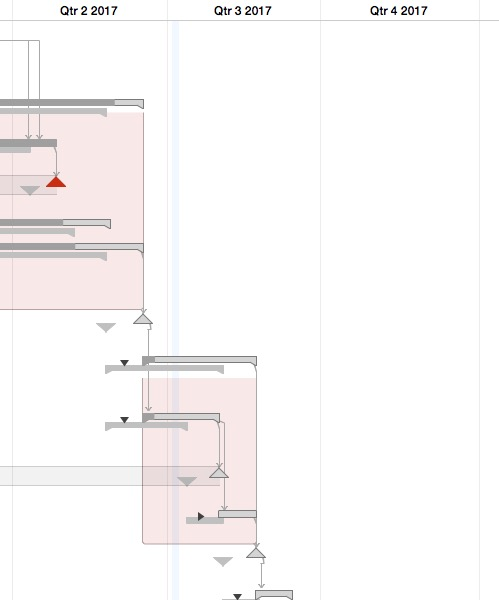
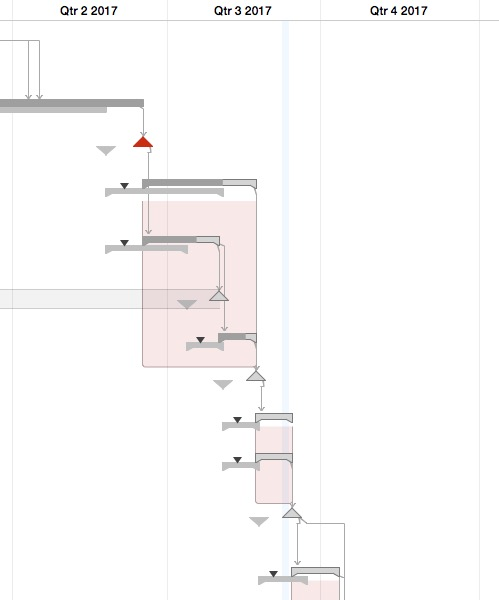
Update September 12
On to cross interest group leads review. Behind on IM Review 2.
Currently writing infrastructure. External integration will not write
fully separately - over all requirements goes into infrastructure and
rest is highlighted at point of external integration through out TDs.

Changed region(s): [[0.0, 0.15, 0.6914, 1.0], [0.1804, 0.24, 0.2405, 0.27], [0.6613, 0.87, 0.6914, 0.9]]

diff --git a/index.html b/index.html
@@ -25,8 +25,8 @@
 			<p class="number"><span class="data-missing">None</span></p>
 		</div>
 		<div id="completed" class="box">
-			<h2><span class="number">47%</span> Completed</h2>
-			<div id="bar"><div id="fill" style="width:47%;"></div></div>
+			<h2><span class="number">63%</span> Completed</h2>
+			<div id="bar"><div id="fill" style="width:63%;"></div></div>
 			<p><span class="label">Start:</span> 10/24/16</p>
 			<p><span class="label">End Date:</span> 12/19/17</p>
 			<p><span class="label">Variance:</span> 1w 3d 1h</p>
@@ -53,7 +53,7 @@
                 <td>10/24/16</td>
                 <td>12/19/17</td>
                 <td>&gt; 7mo 2w 3d 4h</td>
-                <td>54%</td>
+                <td>56%</td>
                 <td></td>
             </tr>
             
@@ -62,7 +62,7 @@
                 <td>11/22/16</td>
                 <td>11/22/17</td>
                 <td>&gt; 4mo 1w 4d 5.25h</td>
-                <td>25%</td>
+                <td>46%</td>
                 <td></td>
             </tr>
             
@@ -80,7 +80,7 @@
                 <td>11/22/16</td>
                 <td>9/5/17</td>
                 <td>3mo 1w 5h</td>
-                <td>85%</td>
+                <td>93%</td>
                 <td></td>
             </tr>
             
@@ -89,7 +89,7 @@
                 <td>11/22/16</td>
                 <td>9/5/17</td>
                 <td>3mo 3w 1d 2h</td>
-                <td>85%</td>
+                <td>94%</td>
                 <td></td>
             </tr>
             
@@ -97,8 +97,8 @@
                 <td style="padding-left: 10px;">WW</td>
                 <td>11/22/16</td>
                 <td>9/14/17</td>
-                <td>&gt; 7mo 2w 3d 5.5h</td>
-                <td>73%</td>
+                <td>&lt; 7mo 2w 4d 0.5h</td>
+                <td>93%</td>
                 <td></td>
             </tr>
             
@@ -125,7 +125,7 @@
                 <td>6/16/17</td>
                 <td>9/5/17</td>
                 <td>1mo</td>
-                <td>0%</td>
+                <td>67%</td>
                 <td></td>
             </tr>
             
@@ -133,8 +133,8 @@
                 <td style="padding-left: 10px;">DJ</td>
                 <td>1/31/17</td>
                 <td>9/5/17</td>
-                <td>3mo 3w 2d 5h</td>
-                <td>84%</td>
+                <td>&gt; 3mo 3w 2d 5.75h</td>
+                <td>95%</td>
                 <td></td>
             </tr>
             
@@ -152,7 +152,7 @@
                 <td>4/28/17</td>
                 <td>8/31/17</td>
                 <td>2mo 2w 1d 4h</td>
-                <td>26%</td>
+                <td>85%</td>
                 <td></td>
             </tr>
             
@@ -231,6 +231,6 @@
        
             </div><!-- end content-->
 	</div><!-- end contentwrap -->
-	 <p class="exported">Exported 7/7/17</p>
+	 <p class="exported">Exported 9/12/17</p>
 
 </body>	

diff --git a/task.html b/task.html
@@ -135,7 +135,7 @@
                 <td>12/14/16</td>
                 <td>6/16/17</td>
                 <td>6mo 3w 2d 4h</td>
-                <td>90%</td>
+                <td>100%</td>
                 <td></td>
                 <td></td>
                 <td>12/14/16</td>
@@ -177,7 +177,7 @@
                 <td>1/16/17</td>
                 <td>5/30/17</td>
                 <td>5mo 1w 2d 3h</td>
-                <td>79%</td>
+                <td>100%</td>
                 <td>3.3.2</td>
                 <td></td>
                 <td>1/13/17</td>
@@ -191,7 +191,7 @@
                 <td>1/30/17</td>
                 <td>6/16/17</td>
                 <td>5mo 2w 1d 5h</td>
-                <td>72%</td>
+                <td>100%</td>
                 <td></td>
                 <td></td>
                 <td>1/26/17</td>
@@ -205,7 +205,7 @@
                 <td>6/16/17</td>
                 <td>6/16/17</td>
                 <td></td>
-                <td>0%</td>
+                <td>100%</td>
                 <td>4.4</td>
                 <td></td>
                 <td>5/29/17</td>
@@ -219,7 +219,7 @@
                 <td>6/16/17</td>
                 <td>8/23/17</td>
                 <td>2mo 2w 2d 4h</td>
-                <td>11%</td>
+                <td>70%</td>
                 <td></td>
                 <td></td>
                 <td>5/29/17</td>
@@ -233,7 +233,7 @@
                 <td>6/16/17</td>
                 <td>8/1/17</td>
                 <td>1mo 3w 4h</td>
-                <td>16%</td>
+                <td>70%</td>
                 <td>5</td>
                 <td></td>
                 <td>5/29/17</td>
@@ -243,7 +243,7 @@
             </tr>
             
             <tr class="taskTypeMilestone">
-                <td style="padding-left: 28px;" class="wrap">6.2) Cross Interest Group Review Completed</td>
+                <td style="padding-left: 28px;" class="wrap">6.2) TD Review 2 Completed</td>
                 <td>8/1/17</td>
                 <td>8/1/17</td>
                 <td></td>
@@ -261,7 +261,7 @@
                 <td>8/1/17</td>
                 <td>8/23/17</td>
                 <td>3w 2d</td>
-                <td>0%</td>
+                <td>71%</td>
                 <td>6.1</td>
                 <td></td>
                 <td>7/13/17</td>
@@ -429,7 +429,7 @@
                 <td>6/1/17</td>
                 <td>7/31/17</td>
                 <td>2mo 1w 3d 3.875h</td>
-                <td>0%</td>
+                <td>18%</td>
                 <td></td>
                 <td></td>
                 <td>6/1/17</td>
@@ -456,6 +456,6 @@
         </div><!-- end table wrap -->
 	</div>
     </div><!-- end contentwrap -->
-	 <p class="exported">Exported 7/7/17</p>
+	 <p class="exported">Exported 9/12/17</p>
 </body>
 </html>

diff --git a/gantt.html b/gantt.html
@@ -23,17 +23,17 @@
 	<h1>Strategic Systems Analysis: Gantt Chart</h1>
 		<div class="tablewrap"><table border="0" cellspacing="0" cellpadding="0">
 <tr>
-	<td><img src="include/gantt0,0.jpg?nocacheTag=-369613528" border=0/></td>
-	<td><img src="include/gantt1,0.jpg?nocacheTag=1824181315" border=0/></td>
+	<td><img src="include/gantt0,0.jpg?nocacheTag=72127406" border=0/></td>
+	<td><img src="include/gantt1,0.jpg?nocacheTag=249046133" border=0/></td>
 </tr>
 <tr>
-	<td><img src="include/gantt0,1.jpg?nocacheTag=-1694173589" border=0/></td>
-	<td><img src="include/gantt1,1.jpg?nocacheTag=1391691921" border=0/></td>
+	<td><img src="include/gantt0,1.jpg?nocacheTag=-1809737489" border=0/></td>
+	<td><img src="include/gantt1,1.jpg?nocacheTag=-1639393737" border=0/></td>
 </tr>
 </table>
 </div>
 		</div>
 	</div><!-- end contentwrap -->
-	 <p class="exported">Exported 7/7/17</p>
+	 <p class="exported">Exported 9/12/17</p>
 
 </body>	
